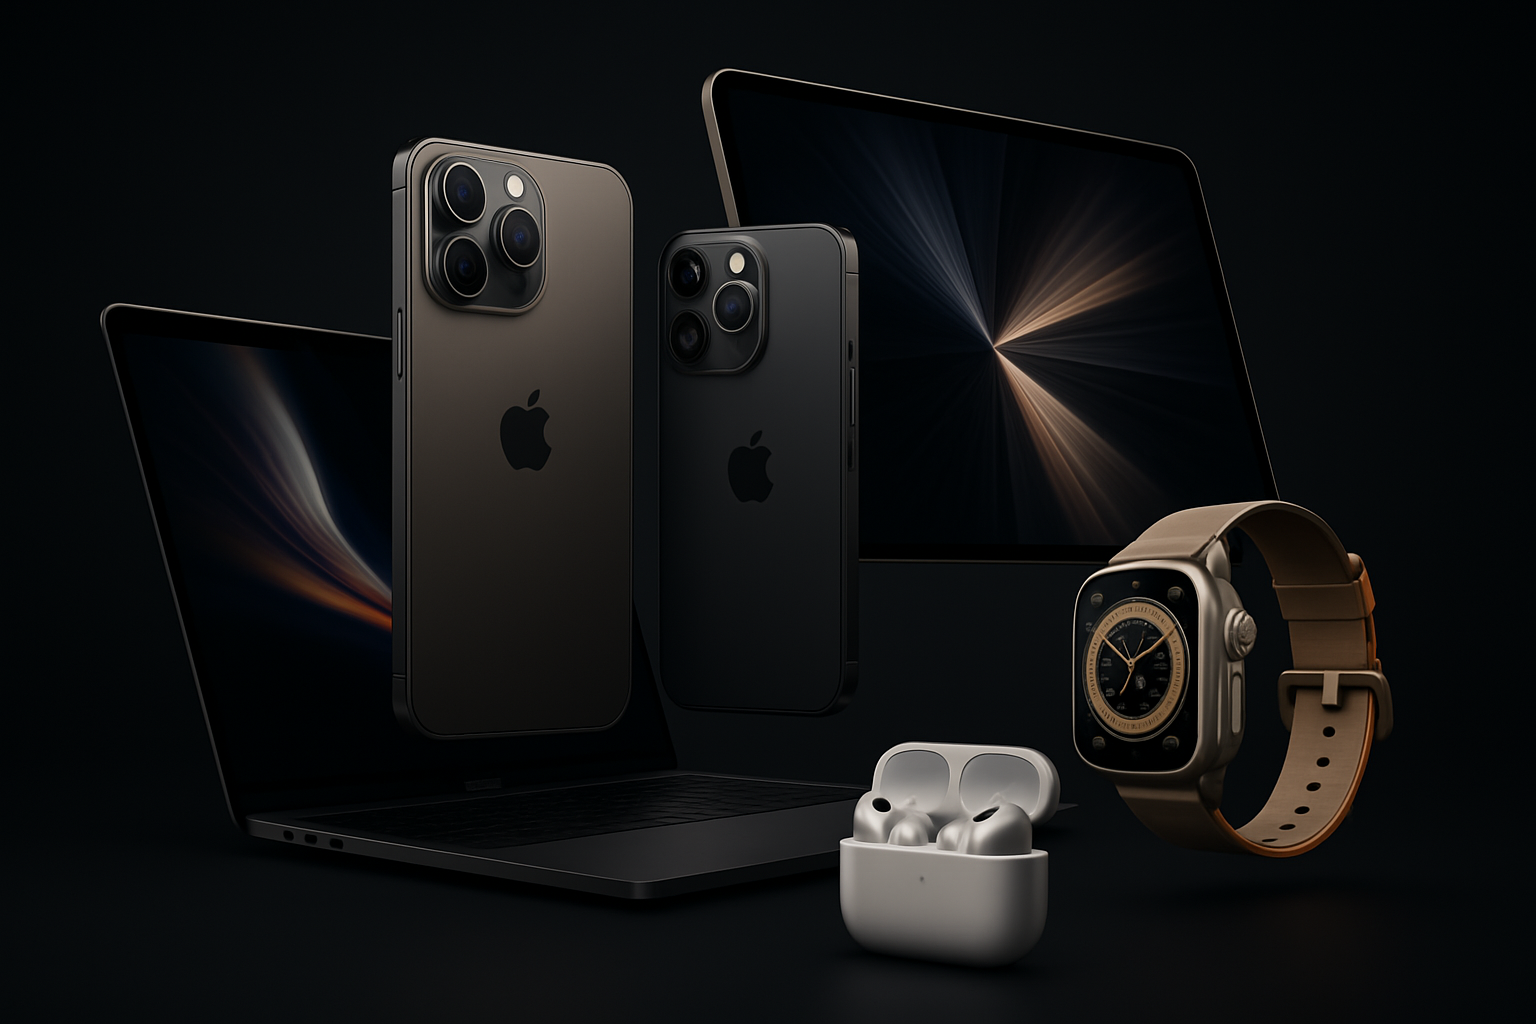
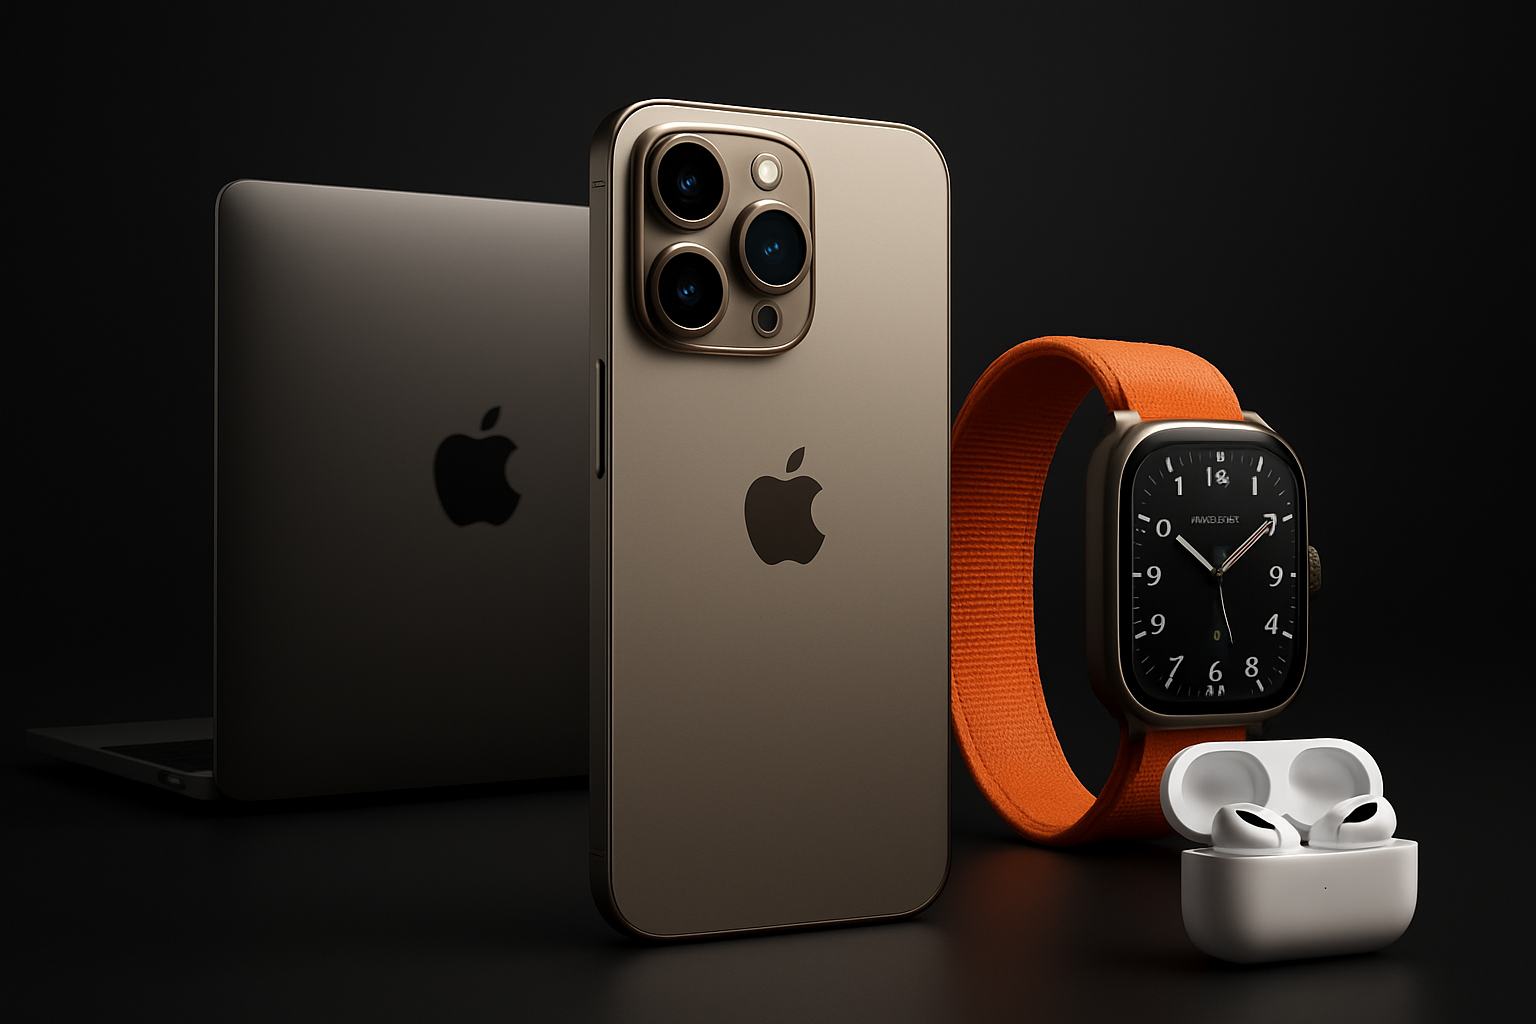
Add files via upload

diff --git a/index.html b/index.html
@@ -59,7 +59,7 @@
                 </div>
                 <div class="hero-product">
                 <div class="hero-image">
-                    <img src="images/hero-background-integrated.png" alt="Ecossistema Apple" class="ecosystem-image">
+                    <img src="images/apple-ecosystem-hero-final-v12.png" alt="Ecossistema Apple" class="ecosystem-image">
                 </div>                 </div>
                 </div>
             </div>

diff --git a/styles.css b/styles.css
@@ -95,7 +95,7 @@ body {
 
 /* Hero Section Premium */
 .hero-premium {
-    background: linear-gradient(135deg, #FF6B35 0%, #F7931E 50%, #FF6B35 100%);
+    background: var(--nessler-black);
     min-height: 100vh;
     display: flex;
     align-items: center;
